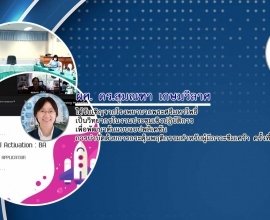
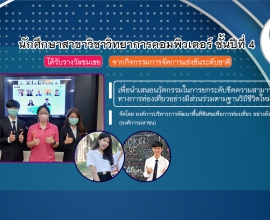
ลิ้งรูป การ์ด

diff --git a/home.html b/home.html
@@ -11,16 +11,16 @@
   <style>
   /* margin navbar */
     .navbarhead{
-      margin-top: 10px;
-  margin-bottom: 10px;
-  margin-right: 10px;
-  margin-left: 10px;
+      margin-top: 1px;
+  margin-bottom: 1px;
+  margin-right: 1px;
+  margin-left: 1px;
     }
     .card-img-top{
-      margin-top: 5%;
-      margin-left: 5%;
-      margin-right:5% ;
-      margin-bottom: 5%;
+      margin-top: 5px;
+      margin-left: 5px;
+      margin-right:5px;
+      margin-bottom: 5px;
     }
   </style>
  
@@ -120,27 +120,29 @@
 <br>
 <div class="card-group">
   <div class="card">
-    <img src="./img/new1.jpg" class="card-img-top" height="30%" width="30%" alt="ข่าวหนึ่ง">
+    <a href url="https://www.cs.kku.ac.th/index.php/th/student-news-all/1812-new-normal"><img src="./img/new1.jpg" class="card-img-top" alt="ข่าวหนึ่ง"></a>
     <div class="card-body">
       <h5 class="card-title">ข่าวสำหรับบุคลากร</h5>
-      <p class="card-text">ผศ. ดร.สุมณฑา เกษมวิลาศ ได้รับเชิญจากโรงพยาบาลพระศรีมหาโพธิ์ เป็นวิทยากรในงานประชุมเชิงปฏิบัติการเพื่อพัฒนาต้นแบบแอปพลิเคชันการบำบัดด้วยการกระตุ้นพฤติกรรมสำหรับผู้มีภาวะซึมเศร้า ครั้งที่ 2</p>
-      <p class="card-text"><small class="text-muted">Last updated 3 mins ago</small></p>
+      <a href url="https://www.cs.kku.ac.th/index.php/th/student-news-all/1812-new-normal">
+      <p class="card-text">นศ. ชั้นปีที่4 ได้รับรางวัลชมเชยจากกิจกรรมการจัดการแข่งขันระดับชาติ เพื่อนําเสนอนวัตกรรมในการยกระดับขีดความสามารถ ทางการท่องเที่ยวอย่างมีส่วนร่วมตามฐานวิถีชีวิตใหม่</p>
+      </a>
     </div>
   </div>
   <div class="card">
-    <img src="./img/new2.jpg" class="card-img-top"height="30%" width="30%"  alt="ข่าวสอง">
+    <a href url="https://www.cs.kku.ac.th/index.php/th/staff-news-all/1813-sumonta-8-64-3"> <img src="./img/new2.jpg" class="card-img-top"  alt="ข่าวสอง"></a>
     <div class="card-body">
-      <h5 class="card-title">ข่าวสำหรับบุคลากร</h5>
-      <p class="card-text">ผศ.ดร.สุมณฑา เกษมวิลาศ ได้รับเชิญจากโรงพยาบาลพระศรีมหาโพธิ์ จ.อุบลราชธานี เป็นวิทยากรบรรยายในหัวข้อ “สุขภาพวิถีใหม่ในยุคดิจิทัล”</p>
-      <p class="card-text"><small class="text-muted">Last updated 3 mins ago</small></p>
+      <h5 class="card-title">ข่าวสำหรับนักศึกษา</h5>
+      <a href url="https://www.cs.kku.ac.th/index.php/th/staff-news-all/1813-sumonta-8-64-3"><p class="card-text">ผศ.ดร.สุมณฑา เกษมวิลาศ ได้รับเชิญจากโรงพยาบาลพระศรีมหาโพธิ์ จ.อุบลราชธานี เป็นวิทยากรบรรยายในหัวข้อ “สุขภาพวิถีใหม่ในยุคดิจิทัล”</p>
+      </a>
     </div>
   </div>
+  
   <div class="card">
-    <img src="./img/new3.jpg" class="card-img-top" height="30%" width="30%"  alt="ข่าวสาม">
+    <img src="./img/new3.jpg" class="card-img-top"  alt="ข่าวสาม">
     <div class="card-body">
-      <h5 class="card-title">ข่าวเด่น</h5>
-      <p class="card-text">ติด TOP10 สถาบันการศึกษาของรัฐด้านไอทีและเทคโนโลยีสารสนเทศ</p>
-      <p class="card-text"><small class="text-muted">Last updated 3 mins ago</small></p>
+      <h5 class="card-title" >ข่าวเด่น</h5>
+      <a href url= https://www.cs.kku.ac.th/index.php/th/featured-news-all/1790-top10><p class="card-text">ติด TOP10 สถาบันการศึกษาของรัฐด้านไอทีและเทคโนโลยีสารสนเทศ</p></a>
+     
     </div>
   </div>
 </div>
@@ -153,7 +155,8 @@
   >
     <!-- Left -->
     <div class="me-5 d-none d-lg-block">
-      <span>Get connected with us on social networks:</span>
+      <a href="info.html" class="btn btn-primary btn-lg active" role="button" aria-pressed="true">ข่าวทั้งหมด</a>
+
     </div>
     <!-- Left -->
 
